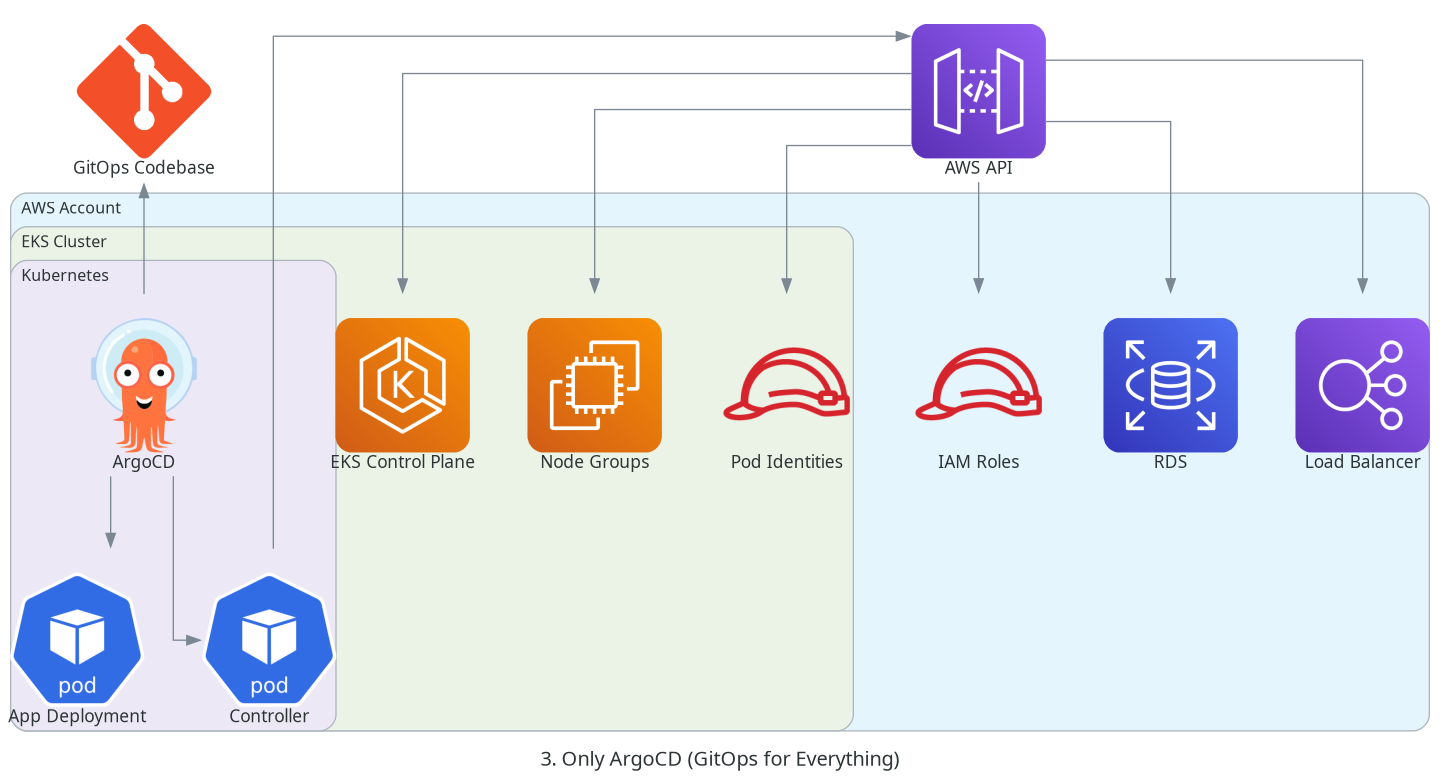
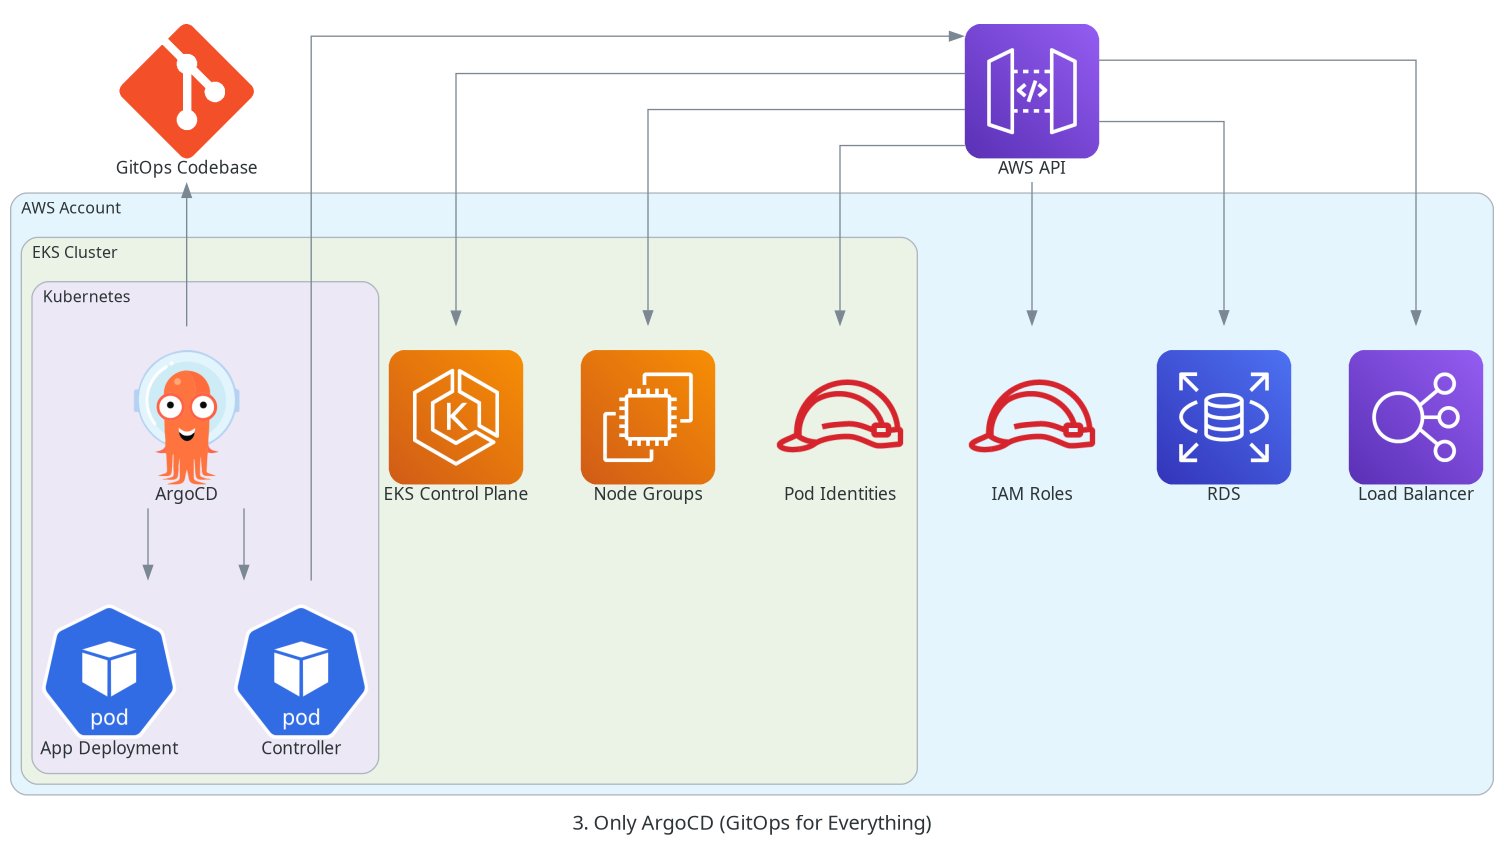
better diagrams

diff --git a/diagrams/eks-automation-1.py b/diagrams/eks-automation-1.py
@@ -11,8 +11,7 @@ from diagrams.k8s.compute import Pod
 from diagrams.onprem.gitops import ArgoCD
 
 graph_attr = {
-    "pad": "0.0",
-    "margin": "0.0"
+    "pad": "0",
 }
 
 # Diagram 1: Everything managed by Terraform (including app deployments)
